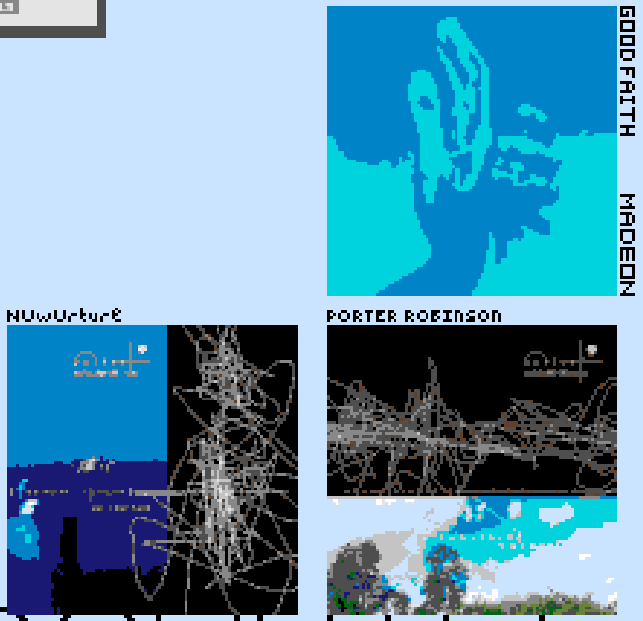
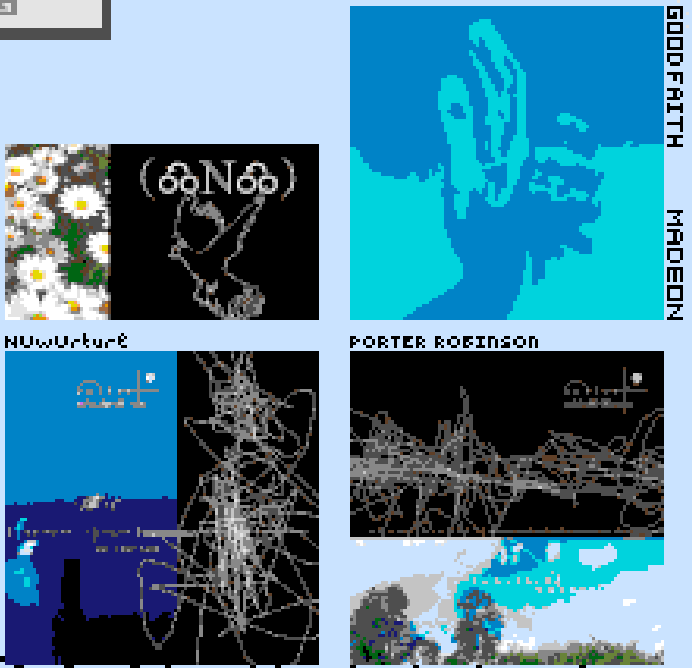
update promo

diff --git a/README.md b/README.md
@@ -1,8 +1,11 @@
 # ppfun2
 **ppfun2** is a [PixelPlanet.Fun](https://pixelplanet.fun/) bot.
 
-![](promo.png)
-![](promo_res.png)
+![](promo.png)\
+*Bot configuration and startup*
+
+![](promo_res.png)\
+*All four images in this shot were drawn by me and my friend using this bot*
 
 It draws and defends images automatically. You only need to enter captcha occasionally when the bot plays a sound notification.
 
